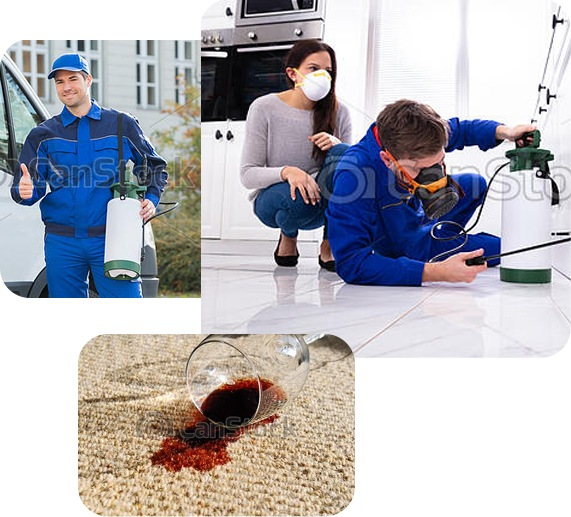
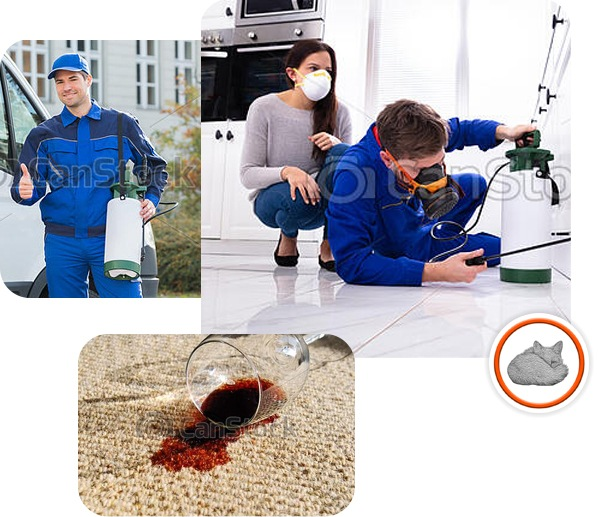
small tweaks

diff --git a/src/components/services/who.js b/src/components/services/who.js
@@ -41,19 +41,9 @@ const StyledATag = styled.a`
   color: ${COLORS.orange};
   font-weight: ${WEIGHT.BOLD};
   transition: 0.3s;
-  svg {
-    padding-right: 20px;
-    path {
-      transition: 0.3s;
-    }
-  }
+  padding-left: 20px;
   &:hover {
     color: ${COLORS.body};
-    svg {
-      path {
-        fill: ${COLORS.body};
-      }
-    }
   }
 `
 
@@ -72,13 +62,19 @@ const Who = () => {
         </StyledH2>
       </Container>
       <Container>
-        <Container padding="0 30px 0 0" className="whoImage">
+        <Container
+          padding="0 30px 0 0"
+          className="whoImage"
+          width="50%"
+          otherCss="img{width:100%;}"
+        >
           <img src="./images/services.jpg" />
         </Container>
         <Container
           padding="0 0 0 30px"
           className="whoText"
           flexDirection="column"
+          width="50%"
         >
           <Container
             className="textHeading"
@@ -88,7 +84,7 @@ const Who = () => {
             alignItems="center"
             padding="0 0 20px 0"
           >
-            <img src="./images/fox.png" />
+            <img src="./images/icon.svg" />
             <StyledH3
               fontWeight="700"
               lineHeight="1.3em"
@@ -110,31 +106,28 @@ const Who = () => {
             Nunc sem mi, viverra non condimentum quis, tincidunt vel odio.
             Pellentesque viverra risus et lacus vehicula, at porta quam
             fringilla. Sed ultricies varius elementum. Curabitur id ex ante.
-            Fusce convallis enim non mollis rutrum. Duis tellus felis, tincidunt
-            vel dictum ac, congue eget libero. Donec sit amet odio est.
           </p>
           <Container
             padding="20px 0 0 0"
             alignItems="center"
             className="facebook"
             justifyContent="flex-start"
-            otherCss={`svg{width:50px;}
+            otherCss={`svg{width:30px; display:block;}
            `}
           >
-            <StyledATag href="#">
-              <svg
-                width="auto"
-                height="auto"
-                viewBox="0 0 61 61"
-                fill="none"
-                xmlns="http://www.w3.org/2000/svg"
-              >
-                <path
-                  d="M57.378 0.000999451H3.352C1.502 0.000999451 0 1.5 0 3.353V57.379C0 59.232 1.502 60.733 3.352 60.733H32.438V37.214H24.524V28.047H32.438V21.287C32.438 13.444 37.227 9.171 44.225 9.171C47.58 9.171 50.457 9.422 51.296 9.531V17.729L46.442 17.731C42.637 17.731 41.903 19.54 41.903 22.193V28.044H50.981L49.794 37.21H41.902V60.73H57.377C59.229 60.73 60.732 59.227 60.732 57.379V3.351C60.731 1.5 59.23 0.000999451 57.378 0.000999451Z"
-                  fill="#fe4f00"
-                />
-              </svg>
-            </StyledATag>
+            <svg
+              width="auto"
+              height="auto"
+              viewBox="0 0 61 61"
+              fill="none"
+              xmlns="http://www.w3.org/2000/svg"
+            >
+              <path
+                d="M57.378 0.000999451H3.352C1.502 0.000999451 0 1.5 0 3.353V57.379C0 59.232 1.502 60.733 3.352 60.733H32.438V37.214H24.524V28.047H32.438V21.287C32.438 13.444 37.227 9.171 44.225 9.171C47.58 9.171 50.457 9.422 51.296 9.531V17.729L46.442 17.731C42.637 17.731 41.903 19.54 41.903 22.193V28.044H50.981L49.794 37.21H41.902V60.73H57.377C59.229 60.73 60.732 59.227 60.732 57.379V3.351C60.731 1.5 59.23 0.000999451 57.378 0.000999451Z"
+                fill="#fe4f00"
+              />
+            </svg>
+
             <StyledATag href="#">Find Silverfox on Facebook</StyledATag>
           </Container>
         </Container>

diff --git a/src/components/nav/nav.js b/src/components/nav/nav.js
@@ -13,7 +13,7 @@ import { COLORS } from "../../styles/colors"
 import { FONT_HEADING, WEIGHT } from "../../styles/text"
 
 const StyledNav = styled(Container)`
-  max-width: unset;
+  max-width: 1920px;
   padding: 0 50px;
 `
 const StyledLogo = styled(Container)`
